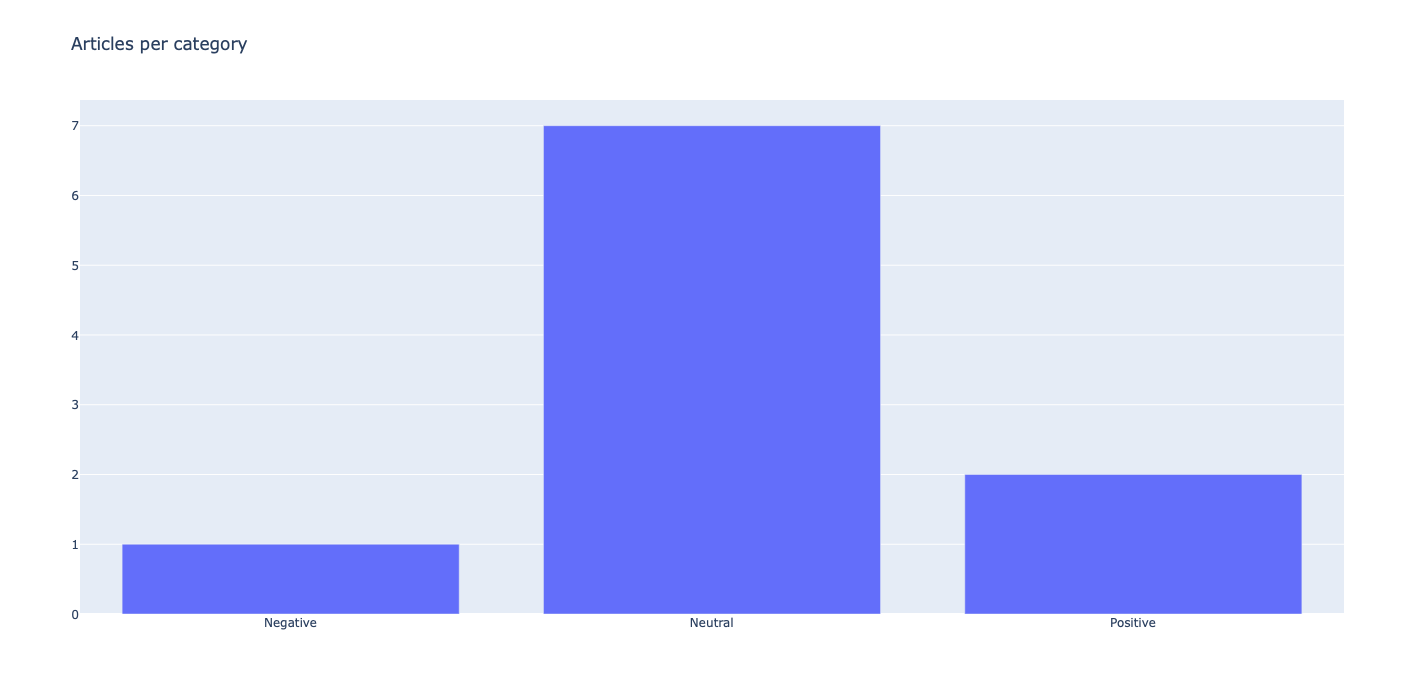
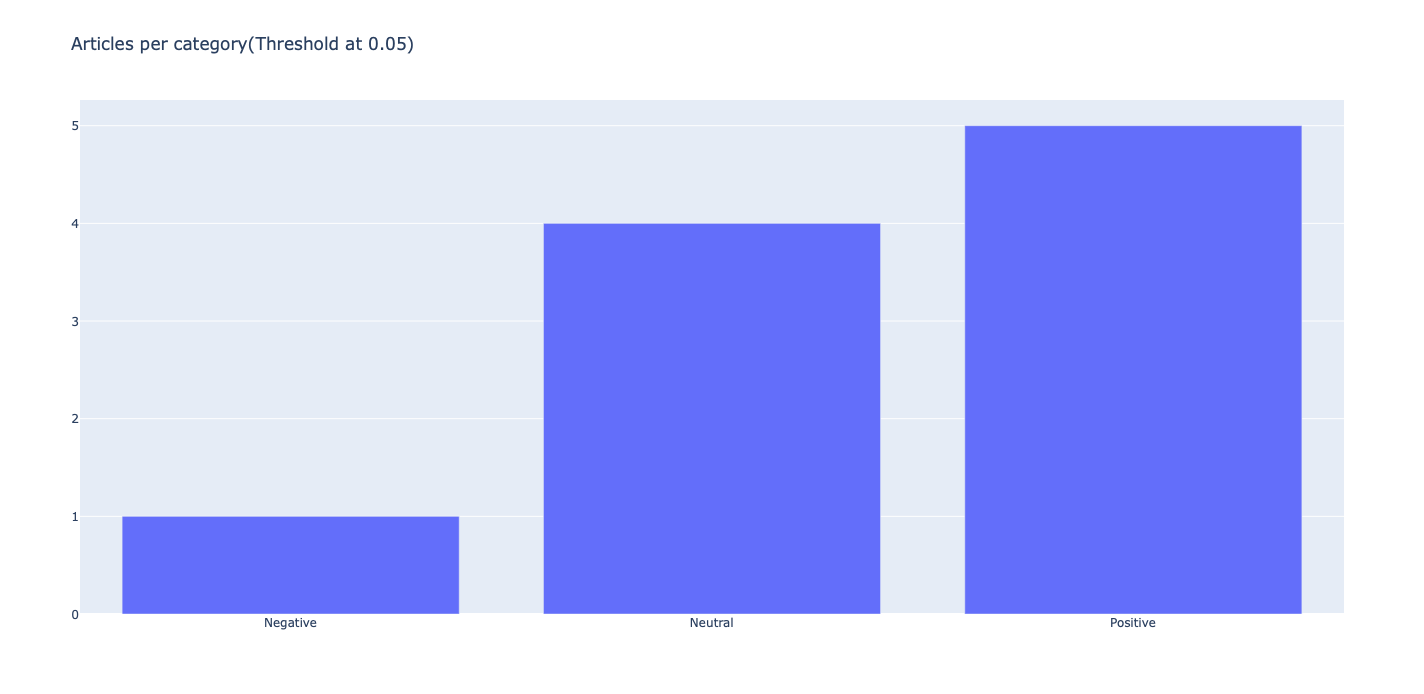
update

diff --git a/main.py b/main.py
@@ -111,16 +111,16 @@ if __name__ == '__main__':
     neg = 0
     neu = 0
     for p in polarity_list:
-        if p > 0.1:
+        if p > 0.05:
             pos += 1
-        elif p < -0.1:
+        elif p < -0.05:
             neg += 1
         else:
             neu += 1
 
     fig = go.Figure(
         data=[go.Bar(y=[neg, neu, pos], x=["Negative", "Neutral", "Positive"])],
-        layout_title_text="Articles per category"
+        layout_title_text="Articles per category(Threshold at 0.05)"
     )
     fig.show()
 
